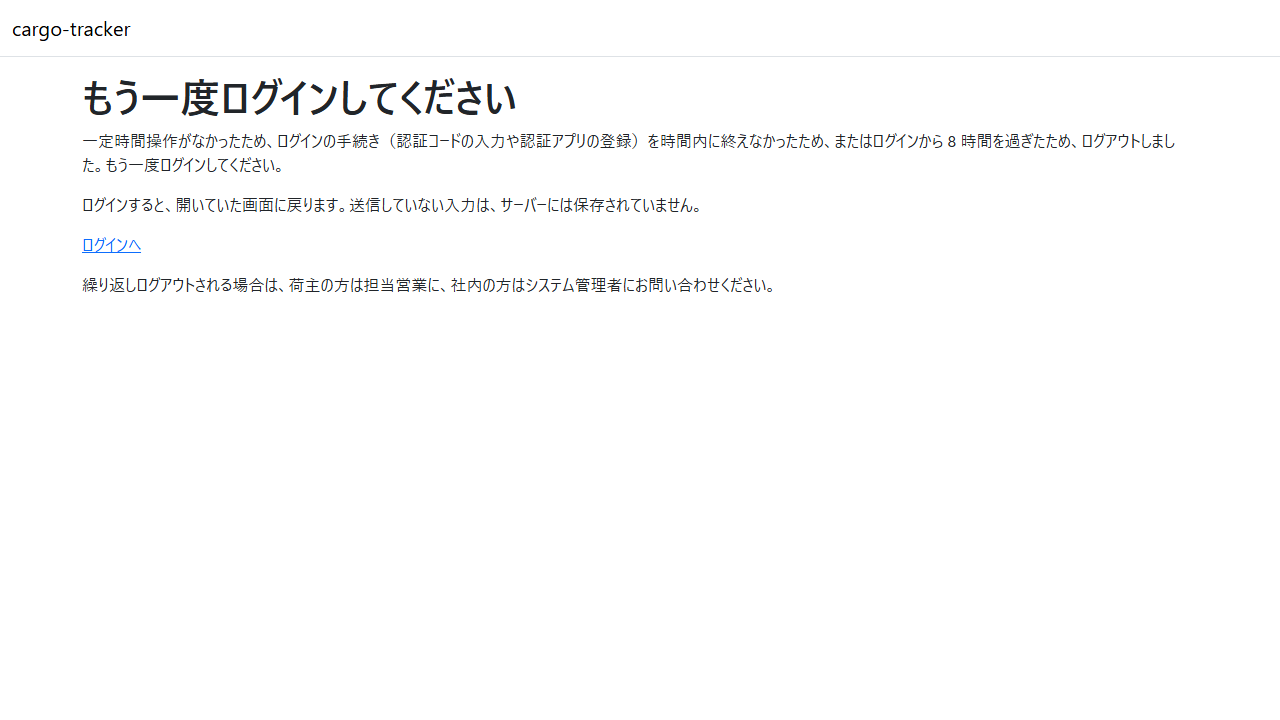
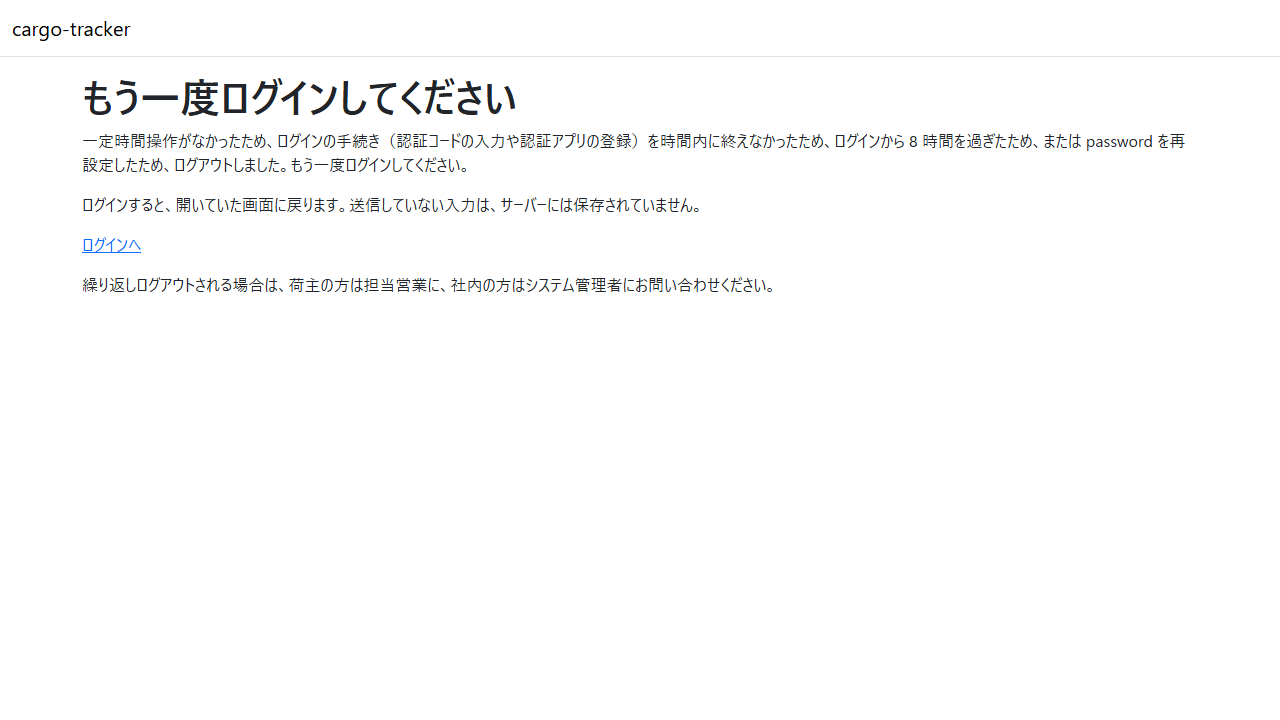
docs(manual): password の再設定（A-06）の手順とキャプチャを書く
- マニュアル 2.4・2.6・付録 B（Q1-7・Q1-8）を更新し、A-06 と完了の知らせのキャプチャを足す
- デモ環境の手順書から「33a までは準備中」を外す
- Bolt 33a 計画にステップ 4 の完了と見つけたことを記録する

Changed region(s): [[0.0625, 0.2139, 0.375, 0.2444], [0.6562, 0.1833, 0.9375, 0.2139]]

diff --git a/docs/manual/02-ログインと共通の画面.md b/docs/manual/02-ログインと共通の画面.md
@@ -4,7 +4,7 @@ title: "2 章 ログインと共通の画面"
 description: "cargo-tracker にログインする手順と、どの役割でも共通の画面（画面の構成、権限がない画面、もう一度ログインする画面）を説明します。"
 tags: [manual,cargo-tracker]
 status: draft
-generated: { by: anthropic/claude-opus-5-5, at: 2026-10-15T02:38:56Z }
+generated: { by: anthropic/claude-opus-5-5, at: 2026-10-15T05:17:21Z }
 ---
 
 # 2 章 ログインと共通の画面
@@ -20,7 +20,7 @@ cargo-tracker にログインする手順と、どの役割でも共通の画面
 | 権限がありません | 役割にない画面を開いたときに示される | [2.3](#23-権限がありません) |
 | もう一度ログインしてください | 一定時間が過ぎたとき、または管理者が利用を止めたときにログアウトして示される | [2.4](#24-もう一度ログインしてください) |
 | まもなくログアウトします | ログアウトの 5 分前に画面の中央に開く警告。ログインを延長できる | [2.5](#25-まもなくログアウトします) |
-| password の再設定の依頼 | password を忘れたときに、再設定のリンクをメールで受け取る | [2.6](#26-password-を忘れた場合) |
+| password の再設定 | password を忘れたときに、再設定のリンクをメールで受け取り、新しい password を設定する | [2.6](#26-password-を忘れた場合) |
 
 ## 2.1 ログイン
 
@@ -147,6 +147,7 @@ cargo-tracker にログインする手順と、どの役割でも共通の画面
 
 - 一定時間操作がなかったとき、またはログインから 8 時間を過ぎたときに、ログアウトして示されます
 - ログインしている間に管理者が利用を止めたとき、または所属する企業の利用が止められたときも、次の操作でログアウトして示されます。画面の文言は同じで、利用が止められたことは示しません
+- ほかのパソコンやタブで password を再設定したとき（[2.6](#26-password-を忘れた場合)）も、次の操作でログアウトして示されます。新しい password でログインし直してください
 
 ### 画面の開き方
 
@@ -235,10 +236,12 @@ cargo-tracker にログインする手順と、どの役割でも共通の画面
 ### この画面でできること
 
 - 登録しているメールアドレスに、password を再設定するためのリンクを送ってもらいます
+- メールのリンクを開き、新しい password を設定します
 
 ### 画面の開き方
 
-- ログインの画面（[2.1](#21-ログイン)）の「password を忘れた場合」をクリックします（URL: `/password-reset`）
+- 依頼の画面: ログインの画面（[2.1](#21-ログイン)）の「password を忘れた場合」をクリックします（URL: `/password-reset`）
+- 再設定の画面: 届いたメールのリンクを開きます（リンクを開くと、URL は `/password-reset/new` に変わります）
 
 ### 画面の説明
 
@@ -250,13 +253,30 @@ cargo-tracker にログインする手順と、どの役割でも共通の画面
 | ② | 「再設定のリンクを送る」 | 入力したメールアドレスに再設定のリンクを送るよう依頼します |
 | ③ | 「ログインに戻る」 | ログインの画面に戻ります |
 
+再設定の画面:
+
+![password の再設定](assets/02-password-reset-new.png)
+
+| # | 項目 | 説明 |
+| :--- | :--- | :--- |
+| ① | 条件 | 新しい password の条件（12 文字以上 64 文字まで、全角の文字の数え方、よく使われている password は使えないこと） |
+| ② | 新しい password | 新しく使う password |
+| ③ | 新しい password（確認） | 確認のため、同じ password をもう一度 |
+| ④ | 「password を設定する」 | 新しい password を設定します |
+| ⑤ | 「ログインに戻る」 | 設定せずにログインの画面に戻ります |
+
 ### 操作手順
 
 1. 「メールアドレス」を入力します
 2. 「再設定のリンクを送る」をクリックします
 3. ログインの画面に戻り、「password の再設定の依頼を受け付けました。…」と示されます
 4. 登録されていて、ご利用いただける状態であれば、数分のうちに「【cargo-tracker】password の再設定のご案内」のメールが届きます
-5. メールのリンクを開いた後の手順（新しい password の設定）は準備中です。リンクを開くと「この画面は準備中です」と示されます
+5. メールのリンクを開きます。再設定の画面が開きます
+6. 「新しい password」と「新しい password（確認）」に同じ password を入力し、「password を設定する」をクリックします
+7. ログインの画面に戻り、「password を変更しました。」と示されます
+8. [2.1 ログイン](#21-ログイン) の手順で、新しい password と認証アプリのコード（または回復コード）でログインします
+
+![password を変更した知らせ](assets/02-login-reset-completed.png)
 
 ### 注意・補足
 
@@ -266,3 +286,10 @@ cargo-tracker にログインする手順と、どの役割でも共通の画面
 - それでも届かない場合は、荷主の方は担当営業に、社内の方はシステム管理者にお問い合わせください
 - メールの本文には、リンク・期限・使い方だけが書かれ、業務の情報は書かれていません。依頼した覚えのないメールが届いた場合は、何もしなくてかまいません。リンクを開かなければ password は変わりません
 - メールアドレスの欄が空か形が正しくないと、欄の下に「メールアドレスを入力してください。」か「メールアドレスの形式が正しくありません。例: user@example.com」と示されます
+- 新しい password は 12 文字以上 64 文字までです。空白や全角の文字も使えます。全角の文字（かな・漢字など）は 1 文字を 3 文字分として数え、合わせて 72 文字分までです（絵文字などは数え方が少し違うことがあります。「全角の文字を含めると長すぎます。」と示されたら、短くしてください）
+- よく使われている password（多くの人が使っていて推測されやすいもの）は使えません。「この password はよく使われているため、使えません。」と示されたら、別の password にしてください
+- 条件に合わないか、確認の欄が違うと、欄の下に誤りが示され、入力した password は消えます。もう一度入力してください
+- 設定すると、ほかのパソコンやタブでログインしていた場合も、次の操作で「もう一度ログインしてください」（[2.4](#24-もう一度ログインしてください)）になります。設定したブラウザでログインしていた場合は、ログアウトします
+- 続けて誤ったログインのためにログインできなくなっていた場合は、新しい password を設定しても、15 分たつまでログインできません
+- リンクを開くと「この再設定のリンクは使えません」と示された場合は、有効期限（30 分）を過ぎた、すでに使った、新しいリンクが送られた、などが考えられます。いちばん新しいメールのリンクを開くか、「password の再設定を依頼し直す」からもう一度依頼してください
+- 再設定の画面を開いたまま 30 分以上たった場合や、しばらく使っていなかったブラウザでリンクを開いた場合は、「もう一度ログインしてください」が示されることがあります。その場合は、メールのリンクをもう一度開いてください（有効期限内なら使えます）

diff --git a/docs/development/cargo-tracker/bolt_33a_plan.md b/docs/development/cargo-tracker/bolt_33a_plan.md
@@ -3,7 +3,7 @@ type: Plan
 title: "Bolt 33a 計画 - password の再設定（A-06。US-18 AC8 の後半）"
 description: "W5 の 16 本目の Bolt の計画。メールのリンクを開くとトークンを確かめて session にトークンの ID だけを移し、トークンのない URL の A-06 で新しい password を設定する（SEC-04 の 12〜64 文字と 72 バイト以下、SEC-05 のよく使われる password の一覧、トークンを 1 回だけ使う、期限切れ・使用済み・無効は同じ案内）。設定したら、今の session を作り直し、コミットの後にその利用者の session をすべて失効させる。ロックはそのまま、A-01 に戻して新しい password と TOTP でログインし直す。監査に記録する。仮の A-06 を置き換え、マニュアルの 2.6 とデモの動画（依頼から設定まで）を作る。"
 tags: [plan]
-generated: { by: anthropic/claude-opus-5-5, at: 2026-10-15T04:09:22Z }
+generated: { by: anthropic/claude-opus-5-5, at: 2026-10-15T05:17:21Z }
 verified:
   - { by: human:kakimomokuri, at: 2026-10-15T03:47:46Z }
 ---
@@ -194,7 +194,7 @@ a03 --> a01 : ほかの端末の次の操作（コミットの後に失効）
 - [x] **3. 完了のサービス（インサイドアウト）** 【承認ゲート: セキュリティ】
   - `open`・`isUsable`・`complete`: 完了・無効（期限切れ・使用済み・無効化・存在しない）・方針の誤り（トークンを使わない）・利用停止と企業の無効（無効、監査なし）、前の未使用のトークンの無効化、監査（利用者で絞る。T-113）、ロックと失敗の数が変わらないこと、コミットの後の失効（ロールバックしたら失効しない）、失効が失敗しても完了する、同じトークンの同時の 2 つの送信で 1 回だけ（T-100）
   - 完了の判定: `check` 緑。トークンを使う条件を外すと同時の送信のテストが落ちることを確かめる（T-112）
-- [ ] **4. 画面（リンクを開く、A-06、無効なリンクの案内、A-01 の完了の知らせ）** 【承認ゲート: 画面、セキュリティ】
+- [x] **4. 画面（リンクを開く、A-06、無効なリンクの案内、A-01 の完了の知らせ）** 【承認ゲート: 画面、セキュリティ】
   - Red の前に、仮の A-06・`PUBLIC_PATHS`・全 URL の見張り（`AUTHENTICATION_SCREENS` に `/password-reset/new` と `/password-reset/{token}` を足す）・A-01 の描画・A-03 の文言を確かめている既存のテストを検索し、変わる期待を Red に入れる（T-122）
   - セキュリティの統合テスト: リンクを開くと `/password-reset/new` に移り、移った先の URL・session の表にトークンがない（session があることを先に確かめる。T-107）。`Referrer-Policy`。無効なトークンは同じ案内。session にトークンの ID がなければ A-06 は案内。CSRF。完了の後に、ほかの端末の session で業務の画面を開くと A-03。新しい password と TOTP でログインできる、古い password ではログインできない。ログイン中・password の段・別の利用者のブラウザでリンクを開いて設定しても、完了の知らせが出る（T-102）。失効した Cookie でリンクを開いた場合の session の表にトークンがない
   - 画面の層の受入シナリオ（`login_ui.feature`、`@US-18-AC8`）: 依頼 → メール → リンクを開く → A-06 で設定 → A-01 の完了の知らせ → 新しい password と TOTP でログイン（`@demo @demo-bolt-33a/reset`）。期限切れのリンクで案内が出る（表の `expires_at` を書き換えるテストの補助を足す）。よく使われる password で誤りが出る。axe の違反 0
@@ -256,6 +256,7 @@ a03 --> a01 : ほかの端末の次の操作（コミットの後に失効）
 
 | 日付 | 更新内容 | 更新者 |
 | :--- | :--- | :--- |
+| 2026-10-15 | ステップ 4 を終え、ステップ 5 のマニュアルとキャプチャを書いた。計画からの変更と見つけたこと: (1) 失効した Cookie でリンクを開くと、Spring Security の無効な session の扱いで A-03 に移る（トークンは使わず session にも置かない。開き直せば使える）。テストはこの振る舞いを確かめ、マニュアル 2.6 にも書いた。(2) 画面の層のシナリオで、Awaitility の中でシナリオのスコープの bean を読んで落ちた（利用者の ID を先に読む形に直した）。(3) 欄の説明の照合に Java の `Pattern.quote` を使い、Playwright が JavaScript の正規表現に変えるため一致しなかった。Bolt 5・25 と同じ落とし穴で 3 回目になる（終了報告で機械の見張りを諮る）。(4) A-03 の文言の変更に合わせて A-03 のキャプチャも撮り直した。(5) デモ環境の `CARGOTRACKER_PUBLICBASEURL` はまだ空だった（Bolt 33 の議題 6。終了報告の議題に置く）。運用手順書の「33a までは準備中」の記述を直した。`check`・`uiTest` 緑 | anthropic/claude-opus-5-5 |
 | 2026-10-15 | ステップ 2・3 を終えた。計画からの変更と見つけたこと: (1) よく使われる password の一覧は SecLists のコミット c205c36 から抜き出し、46,146 語になった。出典・抜き出し方・MIT の表示は資源の隣の `common-passwords.NOTICE.txt` に書いた。(2) session の失効の統合テストは、Spring Session の `JdbcSession` が公開されていないので、総称型を取り込む補助メソッドで session を作った。(3) 利用停止・企業の無効の利用者はトークンを使わずに無効にする（直して送り直すことはできないが、トークンを残す）。(4) `AuditRecord` の引数の名前の文字列を定数にした（SonarQube の重複）。(5) 変異の確かめ: トークンを使う条件（`used_at IS NULL`）を外すと、同時の送信と使用済みのトークンのテストが落ちた（T-112）。`check` 緑 | anthropic/claude-opus-5-5 |
 | 2026-10-15 | `/goal Bolt33a` を受けた。承認ゲートでは止めずに進める | anthropic/claude-opus-5-5、指示 human:kakimomokuri |
 | 2026-10-15 | 承認（確認ポイント 1〜14 は推奨のまま）。承認ゲートでは止めずに進め、止めなかったゲートごとに根拠を書いて終了報告の承認の議題に置く（T-36）。実装の途中で層・モジュールの規則に当たったときと、5 時間を超えると見えたときは止めて諮る | human:kakimomokuri |

diff --git a/docs/manual/付録B-トラブルシューティング.md b/docs/manual/付録B-トラブルシューティング.md
@@ -4,7 +4,7 @@ title: "付録 B トラブルシューティング"
 description: "困ったときの症状から引く Q&A です。"
 tags: [manual,cargo-tracker]
 status: draft
-generated: { by: anthropic/claude-opus-5-5, at: 2026-10-15T02:38:56Z }
+generated: { by: anthropic/claude-opus-5-5, at: 2026-10-15T05:17:21Z }
 ---
 
 # 付録 B トラブルシューティング
@@ -26,6 +26,7 @@ generated: { by: anthropic/claude-opus-5-5, at: 2026-10-15T02:38:56Z }
 | 確認すること | 対処 |
 | :--- | :--- |
 | 30 分以上画面の移動や送信がなかった、またはログインから 8 時間を過ぎた | 仕様です（不具合ではありません）。「ログインへ」からログインし直すと、開いていた画面に戻ります（戻らずに役割のホームが開く場合は [2.4](02-ログインと共通の画面.md#24-もう一度ログインしてください) の注意・補足）。送信していない入力は、同じタブでログインし直すと戻る場合があります（[2.5](02-ログインと共通の画面.md#25-まもなくログアウトします)）。戻らなければ入れ直してください |
+| password を再設定した（ほかのパソコンやタブで設定した場合も） | 仕様です。新しい password でログインし直してください（[2.6](02-ログインと共通の画面.md#26-password-を忘れた場合)） |
 | 次からログアウトを防ぎたい | ログアウトの 5 分前に「まもなくログアウトします」が開くので、「ログインを延長する」を押してください。入力欄に入力しているだけでは時間は数え直されないので、長い入力は途中で延長するか送信してください。ログインから 8 時間は延長できません（[2.5](02-ログインと共通の画面.md#25-まもなくログアウトします)） |
 | ログインし直そうとすると「メールアドレスまたは password が正しくありません。」と示されてログインできない | 管理者があなたの利用、または所属する企業の利用を止めた可能性があります（止めた後の次の操作でログアウトします）。荷主の方は担当営業に、社内の方はシステム管理者にお問い合わせください |
 
@@ -58,8 +59,24 @@ generated: { by: anthropic/claude-opus-5-5, at: 2026-10-15T02:38:56Z }
 | 迷惑メールのフォルダに入っていないか | 「【cargo-tracker】password の再設定のご案内」を探してください |
 | 前にリンクを送ってから 1 分以内に依頼し直していないか | 1 分以内の依頼ではメールは送られません。1 分以上たってからもう一度依頼してください（[2.6](02-ログインと共通の画面.md#26-password-を忘れた場合)） |
 | 利用を止められていないか | 止められている場合は送られません（画面には示しません）。荷主の方は担当営業に、社内の方はシステム管理者にお問い合わせください |
-| リンクを開くと「この画面は準備中です」と示される | 新しい password を設定する画面は準備中です。password を変える必要がある場合は、荷主の方は担当営業に、社内の方はシステム管理者にお問い合わせください |
 | それでも届かない | 荷主の方は担当営業に、社内の方はシステム管理者にお問い合わせください |
+
+### Q1-7. 再設定のリンクを開くと「この再設定のリンクは使えません」と示された
+
+| 確認すること | 対処 |
+| :--- | :--- |
+| メールが届いてから 30 分以上たっていないか | リンクの有効期限は 30 分です。「password の再設定を依頼し直す」からもう一度依頼してください |
+| 再設定のメールが複数届いていないか | いちばん新しいメールのリンクを開いてください。新しいリンクを送ると、前のリンクは使えなくなります |
+| すでに新しい password を設定していないか | リンクは 1 回だけ使えます。設定した password でログインしてください |
+| それでも使えない | 荷主の方は担当営業に、社内の方はシステム管理者にお問い合わせください |
+
+### Q1-8. 新しい password を設定したのにログインできない
+
+| 確認すること | 対処 |
+| :--- | :--- |
+| 設定した新しい password を入れたか | 前の password は使えません。新しい password を入れてください |
+| 続けて誤ったログインのためにログインできなくなっていないか | 15 分たってから、もう一度ログインしてください（[2.6](02-ログインと共通の画面.md#26-password-を忘れた場合)） |
+| それでもログインできない | 荷主の方は担当営業に、社内の方はシステム管理者にお問い合わせください |
 
 ## 2. 荷主の画面
 

diff --git a/docs/operation/cargo-tracker/heroku_demo_setup.md b/docs/operation/cargo-tracker/heroku_demo_setup.md
@@ -4,7 +4,7 @@ title: "Heroku デモ環境セットアップ手順書 - cargo-tracker"
 description: "cargo-tracker を dev プロファイルのまま Heroku（Container Registry、Eco dyno）へ配備し、関係者が触って確かめるデモ環境を作る・更新する・止める手順を示す。"
 tags: [operation,playbook,setup,heroku]
 status: stable
-generated: { by: anthropic/claude-opus-5-5, at: 2026-10-15T02:38:56Z }
+generated: { by: anthropic/claude-opus-5-5, at: 2026-10-15T05:17:21Z }
 verified:
   - { by: human:kakimomokuri, at: 2026-10-06T11:19:09Z }
   - { by: human:kakimomokuri, at: 2026-10-07T02:53:59Z }
@@ -134,7 +134,7 @@ npx gulp deploy:demo:setup
 
 アプリの作成（`--stack container --region us`）、Config Vars の設定、`log-runtime-metrics`（メモリの値をログに出す）の有効化を行います。アプリ名・region・JVM の設定は `.env` の `DEMO_*` で変えられます（`.env.example` を参照）。
 
-Config Vars には、password の再設定のメールのリンクを組み立てる公開の base URL（`CARGOTRACKER_PUBLICBASEURL`。既定はデモ環境の URL、`DEMO_PUBLIC_BASE_URL` で変えられる）も入ります（Bolt 33、ADR-017）。デモ環境は dev プロファイルなので、再設定のメールは送らずにログ（`npx gulp deploy:demo:logs`）に出ます。Bolt 33a までは、リンクを開くと「準備中」の画面になります。デモ環境のログには再設定のリンクが出るため、ログを読める人を限り、デモには実在のメールアドレスを登録しないでください。Bolt 33 の前に作ったアプリでは、`deploy:demo:setup` をもう一度実行して Config Vars を合わせてください。
+Config Vars には、password の再設定のメールのリンクを組み立てる公開の base URL（`CARGOTRACKER_PUBLICBASEURL`。既定はデモ環境の URL、`DEMO_PUBLIC_BASE_URL` で変えられる）も入ります（Bolt 33、ADR-017）。デモ環境は dev プロファイルなので、再設定のメールは送らずにログ（`npx gulp deploy:demo:logs`）に出ます。ログのリンクを開くと、新しい password を設定できます（Bolt 33a）。デモ環境のログには再設定のリンクが出るため、ログを読める人を限り、デモには実在のメールアドレスを登録しないでください。Bolt 33 の前に作ったアプリでは、`deploy:demo:setup` をもう一度実行して Config Vars を合わせてください。
 
 ### CI からの配備の準備
 

diff --git a/docs/log.md b/docs/log.md
@@ -1,6 +1,10 @@
 # Docs Update Log
 
 ## 2026-10-15
+* **Update**: [heroku_demo_setup](/operation/cargo-tracker/heroku_demo_setup.md) を更新（anthropic/claude-opus-5-5）
+* **Update**: [付録B-トラブルシューティング](/manual/付録B-トラブルシューティング.md) を更新（anthropic/claude-opus-5-5）
+* **Update**: [02-ログインと共通の画面](/manual/02-ログインと共通の画面.md) を更新（anthropic/claude-opus-5-5）
+* **Update**: [bolt_33a_plan](/development/cargo-tracker/bolt_33a_plan.md) を更新（anthropic/claude-opus-5-5）
 * **Update**: [bolt_33a_plan](/development/cargo-tracker/bolt_33a_plan.md) を更新（anthropic/claude-opus-5-5）
 * **Update**: [user_story](/requirements/cargo-tracker/user_story.md) を更新（anthropic/claude-opus-5-5）
 * **Update**: [release_plan](/development/cargo-tracker/release_plan.md) を更新（anthropic/claude-opus-5-5）
